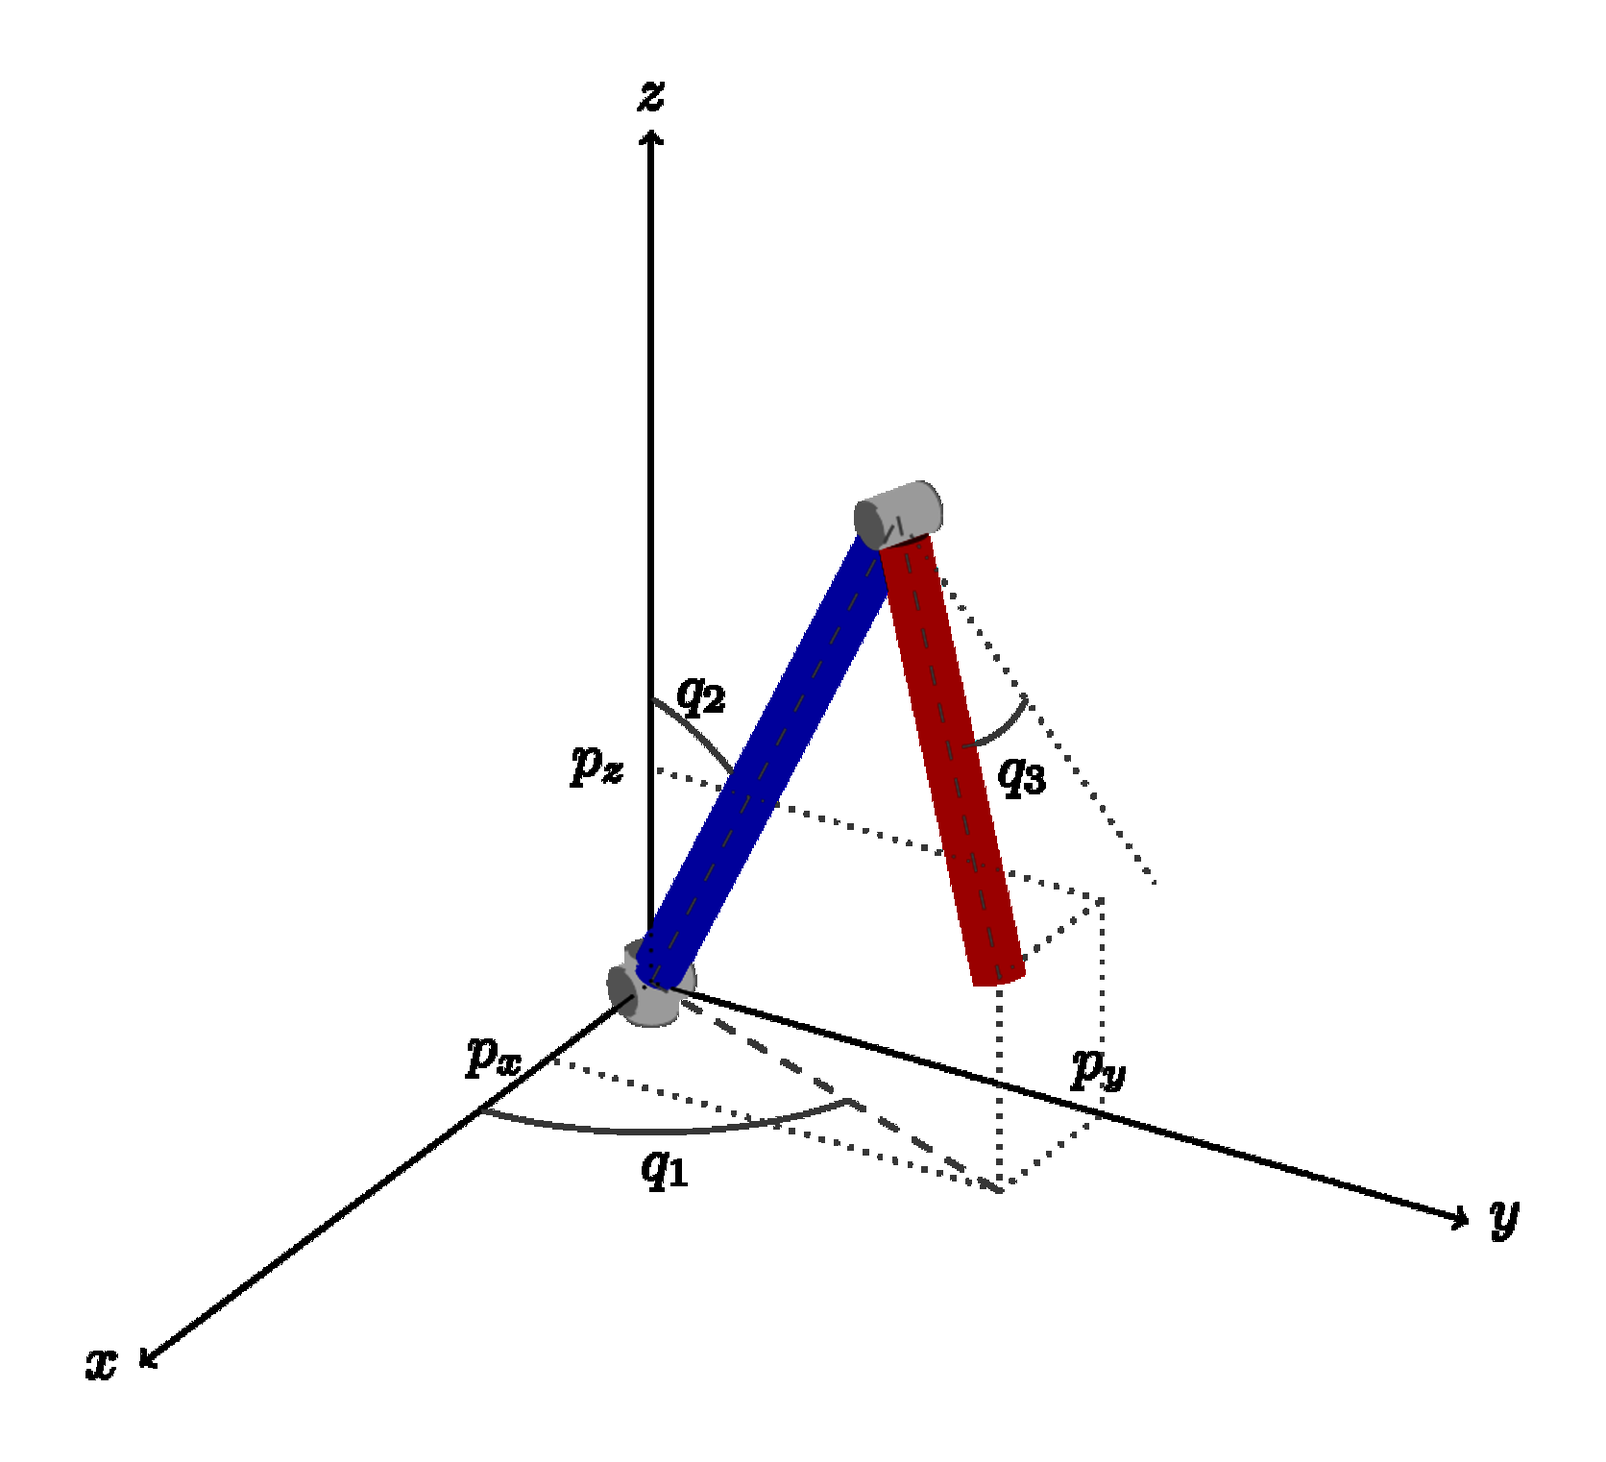
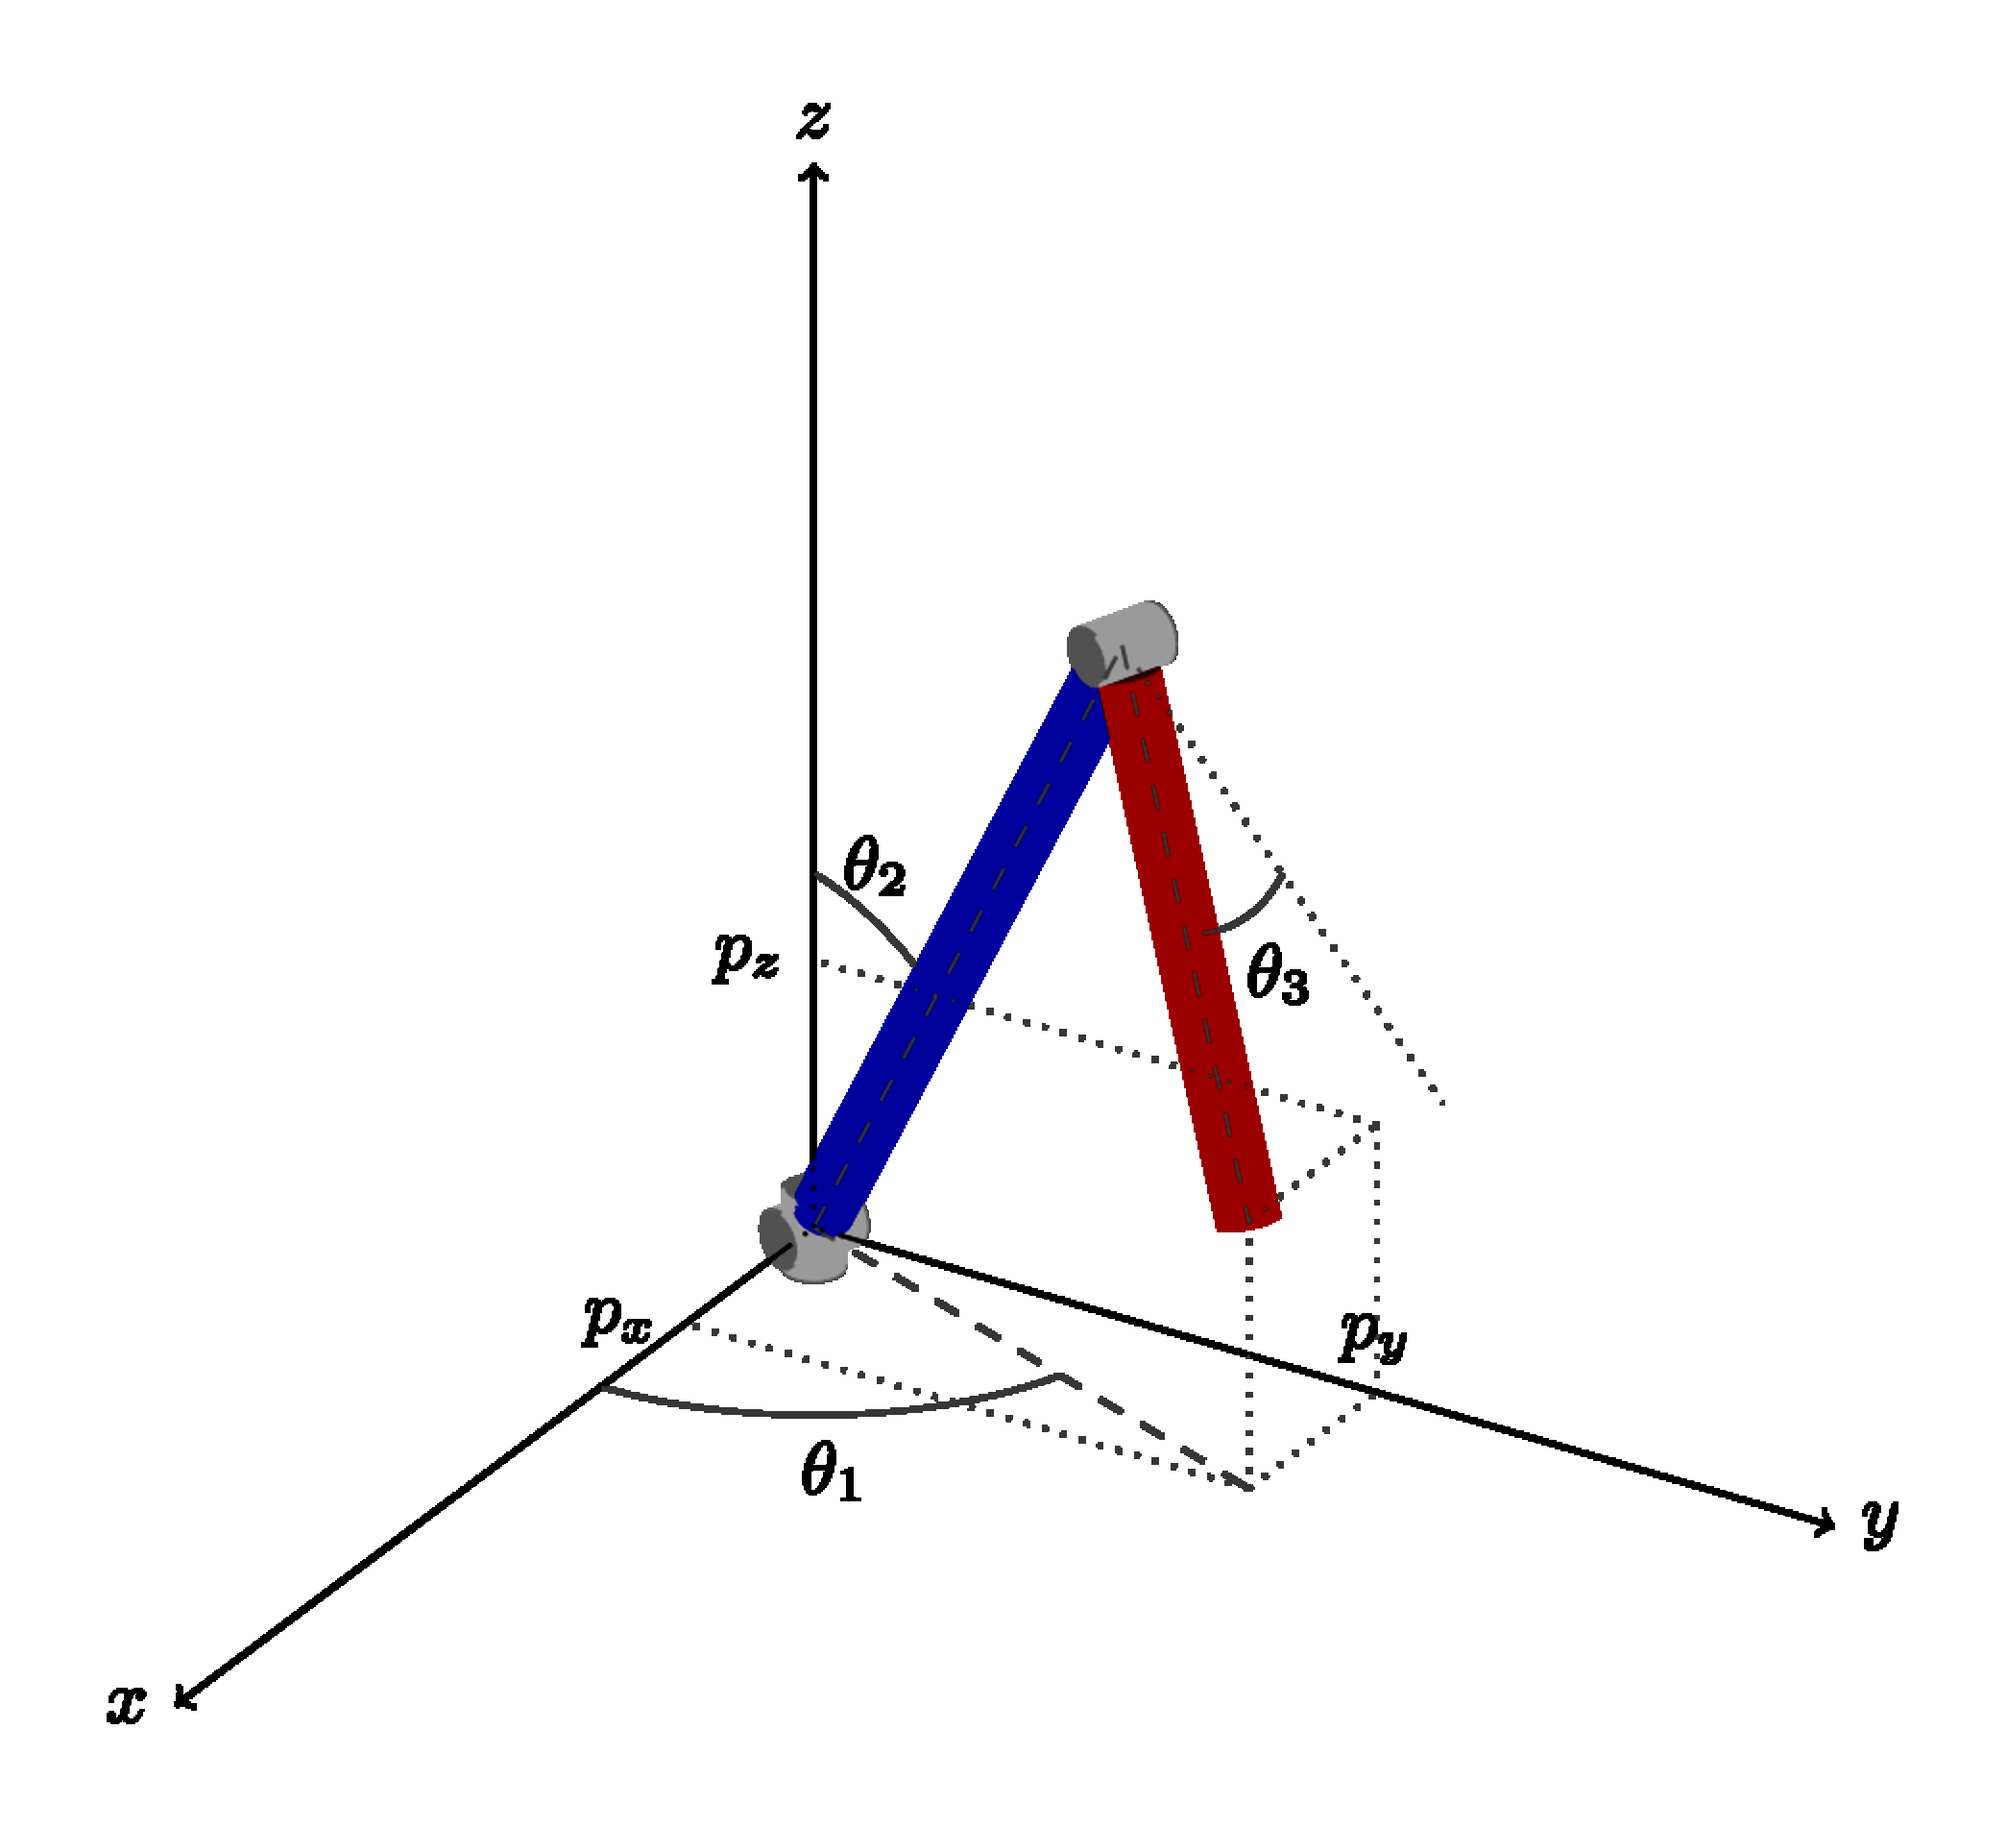
Changed variable names

Changed region(s): [[0.4043, 0.772, 0.4354, 0.8338], [0.4043, 0.4632, 0.4665, 0.4941], [0.622, 0.525, 0.6531, 0.5558]]

diff --git a/figures/3dtest.tex b/figures/3dtest.tex
@@ -963,6 +963,6 @@
 \filldraw[color=black!20,draw=none](1.312,2.408)--(1.319,2.413)--(1.274,2.397)--(1.268,2.392)--cycle;
 \draw[color=black!20](1.319,2.413)--(1.274,2.397)--(1.268,2.392)--(1.312,2.408);
 \draw[dotted,color=gray](1.515,2.344)--(2.773,.547);
- \node[left] at (-2.81,-2.105) {\small $x$}; \node[right] at (4.496,-1.316) {\small $y$}; \node[above] at (0,4.684) {\small $z$};  \draw[dashed, thin, gray] (0,0) to (1.36,2.565);  \draw[dashed, thin, gray] (1.36,2.565) to (1.918,.03);  \draw[dashed, gray] (0,0) to (1.918,-1.15);  \draw[dotted, thin, gray] (1.918,.03) to (1.918,-1.15);  \draw[dotted, thin, gray] (1.918,-1.15) to (2.483,-.727);  \draw[dotted, thin, gray] (1.918,-1.15) to (-.565,-.423);  \draw[dotted, thin, gray] (1.918,.03) to (2.483,.453);  \draw[dotted, thin, gray] (2.483,.453) to (2.483,-.727);  \draw[dotted, thin, gray] (2.483,.453) to (0,1.18);  \node[left] at (-.565,-.423) {\small $p_x$};  \node[above] at (2.483,-.727) {\small $p_y$};  \node[left] at (0,1.18) {\small $p_z$};  \node[below] at (.092,-.826) {\small $q_1$};  \node[above] at (.282,1.339) {\small $q_2$};  \node[right] at (1.785,1.119) {\small $q_3$}; \draw[dotted,thin](-2.81,-2.105)--(0,0)--(4.496,-1.316);
+ \node[left] at (-2.81,-2.105) {\small $x$}; \node[right] at (4.496,-1.316) {\small $y$}; \node[above] at (0,4.684) {\small $z$};  \draw[dashed, thin, gray] (0,0) to (1.36,2.565);  \draw[dashed, thin, gray] (1.36,2.565) to (1.918,.03);  \draw[dashed, gray] (0,0) to (1.918,-1.15);  \draw[dotted, thin, gray] (1.918,.03) to (1.918,-1.15);  \draw[dotted, thin, gray] (1.918,-1.15) to (2.483,-.727);  \draw[dotted, thin, gray] (1.918,-1.15) to (-.565,-.423);  \draw[dotted, thin, gray] (1.918,.03) to (2.483,.453);  \draw[dotted, thin, gray] (2.483,.453) to (2.483,-.727);  \draw[dotted, thin, gray] (2.483,.453) to (0,1.18);  \node[left] at (-.565,-.423) {\small $p_x$};  \node[above] at (2.483,-.727) {\small $p_y$};  \node[left] at (0,1.18) {\small $p_z$};  \node[below] at (.092,-.826) {\small $\theta_1$};  \node[above] at (.282,1.339) {\small $\theta_2$};  \node[right] at (1.785,1.119) {\small $\theta_3$}; \draw[dotted,thin](-2.81,-2.105)--(0,0)--(4.496,-1.316);
 \draw[dotted,thin](0,0)--(0,4.684);
 \end{tikzpicture}% End sketch output
